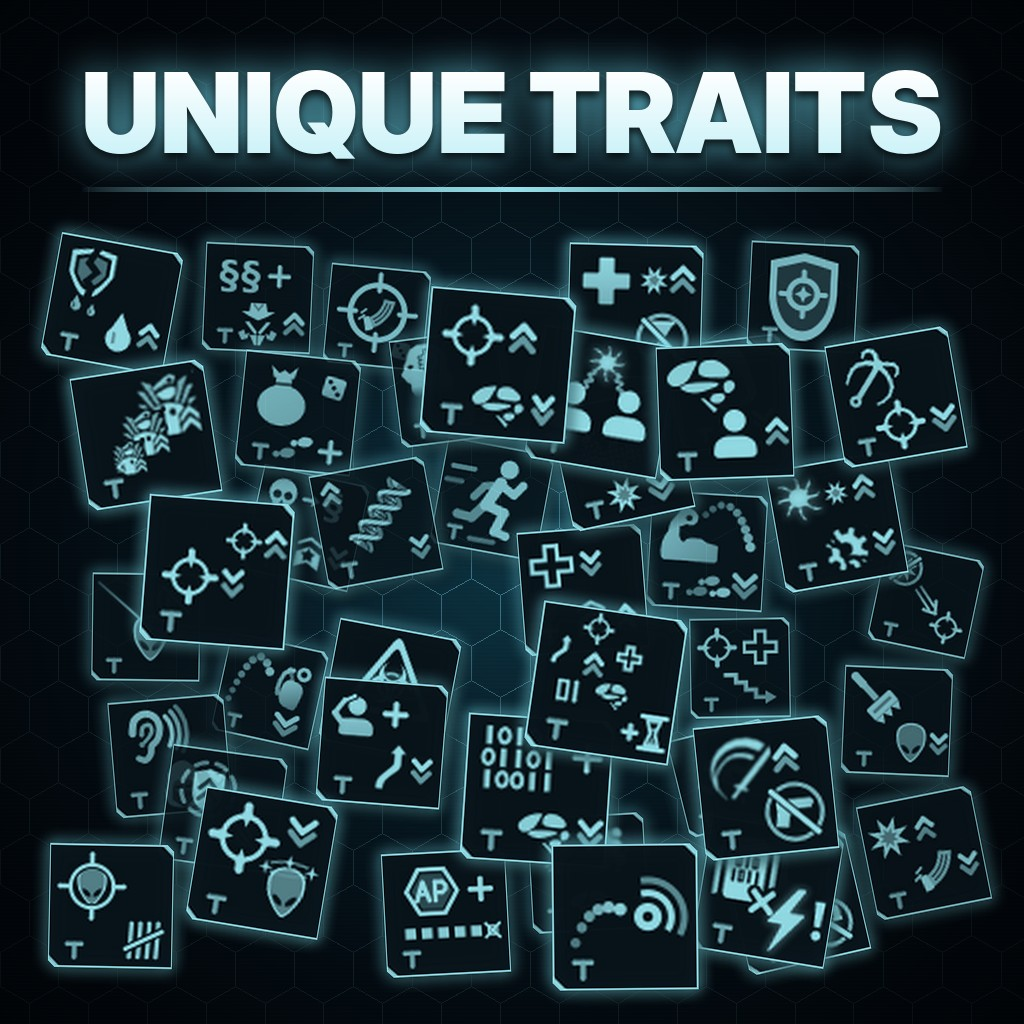
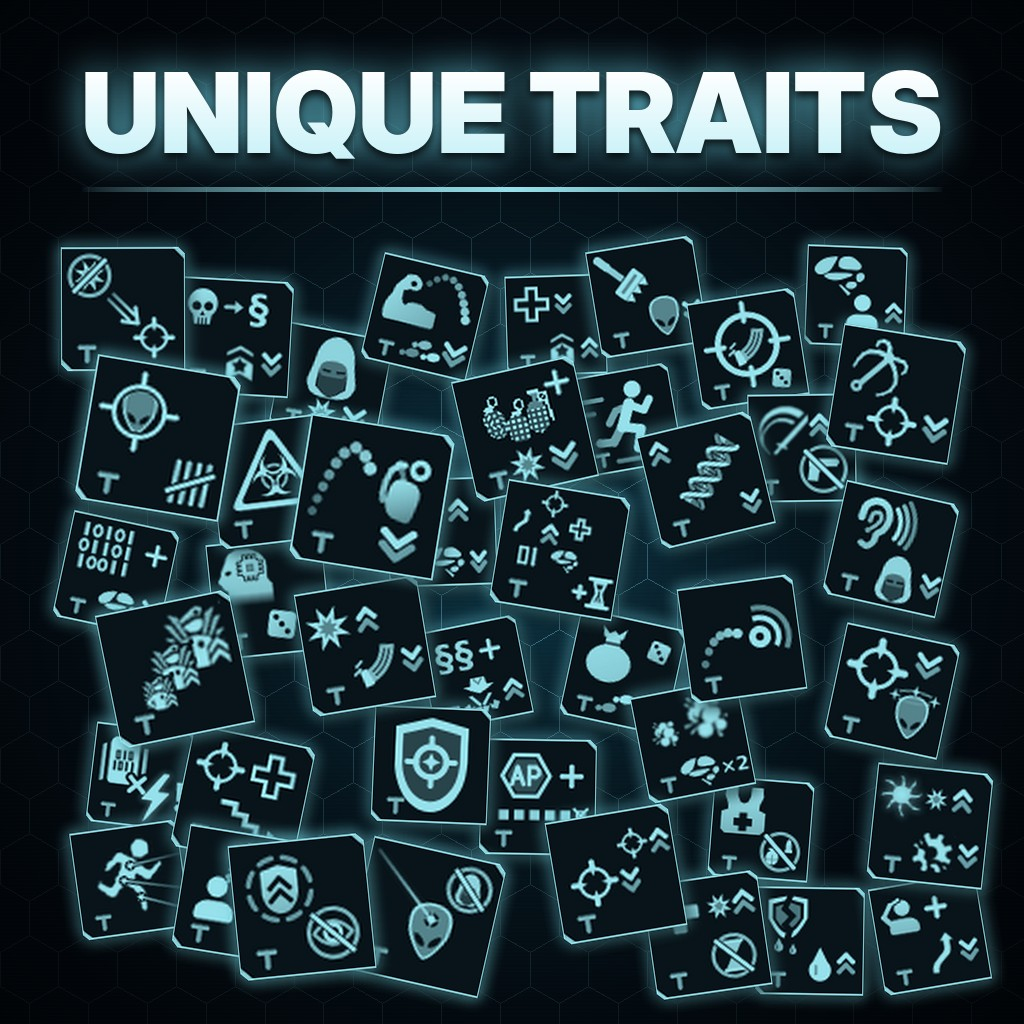
Add a readme copying the steam workshop description Update 2 trait label Rework ModPreview image

diff --git a/ReadMe.md b/ReadMe.md
@@ -1,0 +1,174 @@
+# Unique Traits
+
+## Main Goal
+
+Add diversity to your campaign by giving some of your soldiers a unique trait.
+
+There are **42 traits** covering a wide range of gameplay elements, including stats, damage, cover actions, skill trees and skill points, bondmates, new tactical abilities, and more.
+
+- **35 traits** are available without additional mod requirements.
+- **7 traits** require specific mods to be available: 5 for LWOTC and 2 for Community Promotion Screen.
+
+Each trait provides a thematic advantage along with a corresponding drawback.
+
+Each trait can only be assigned to one soldier at a time, meaning a maximum of 42 soldiers can have a trait simultaneously.
+
+When a soldier with a trait dies or is dismissed, their trait becomes available again.
+
+---
+
+## Some Examples
+
+- **Athlete:** +3 Mobility, +15 Dodge, -5 Aim, -10 Critical Chance.
+- **Pacifist:** Gains a new ability, *Stay Covered*. This free action activates if the soldier inflicted no damage during the previous turn. Allies within 6 tiles gain +10 Defense and +5 Dodge until the next turn. The soldier loses all Overwatch abilities.
+- **Acrobat:** Gains the Skirmisher Grapple ability. Suffers -10 Aim and -10 Critical Chance when attacking targets below their elevation.
+- **Briber:** Generates +20 Supplies per month for the haven they advise. Increases squad infiltration time when deployed. **[LWOTC only; disabled without LWOTC]**
+- **Thief:** Picking up loot during the XCOM turn grants one bonus movement point, once per turn. Has a 20% chance to secretly keep the item, meaning you lose the corresponding reward.
+- **Cyborg:** Can only equip basic PCS. Replaced PCS are retained. Upon mission victory, has a 30% chance to upgrade the equipped PCS by one tier.
+- ...
+
+---
+
+## How It Works
+
+By default, all rookies who rank up naturally (by completing a mission, getting kills, or completing a covert action) receive a random trait.
+
+This system was designed for balance, as the mod is intended to be played with **ChooseMyClass**, which offers three class choices whenever a rookie ranks up.
+
+You can adjust the difficulty by changing your setup:
+
+- **Without ChooseMyClass:** Harder. Some traits may be poorly suited to certain classes, and the random assignment can lead to unfortunate combinations.
+- **With ChooseMyClass:** In roughly half of your rank-ups, you should find a suitable class among the three choices. The other half may be more frustrating.
+- **With the "Trait Given at Recruitment" option enabled:** Easier. You know each rookie's trait from the beginning and can train them in a suitable class at the GTS.
+
+---
+
+## Exceptions
+
+Some soldiers do not naturally receive a trait:
+
+- Faction Heroes: Skirmisher, Reaper, and Templar.
+- Aliens and ADVENT units.
+- Mission, Covert Action, and Black Market rewards.
+- POI rewards.
+- MECs: converting a soldier with a trait into a MEC removes their trait.
+
+These exceptions are intentional for balancing and compatibility reasons.
+
+---
+
+## Console Commands
+
+If you want to assign a trait to one of the exceptions, you can use the following console command on the soldier's Armory screen:
+
+```
+AddUniqueTrait TraitName
+```
+
+Replace `TraitName` with the name of the trait you want to assign.
+
+If the soldier already has a trait, it will be replaced.
+
+**Important:** This command bypasses the uniqueness rule, allowing you to assign the same trait to multiple soldiers.
+
+To remove a trait from a soldier, use:
+
+```
+RemoveUniqueTrait
+```
+
+These commands should only be used when necessary. Don't cheat! :P
+
+---
+
+## Mod Companions
+
+- **MCM (Mod Configuration Menu):** Use MCM instead of editing INI files. Otherwise, your changes may be overwritten when I update those files. With MCM, any options you have modified will retain your settings, while untouched options will follow my updates.
+- **Class Highlander:** My other mod, which restricts each class to one soldier. With 40–50 classes, plus playable aliens, ADVENT, faction heroes, and MECs, every campaign can be different!
+
+---
+
+## MCM Configuration
+
+As mentioned above, you should use the **MCM mod** to configure this mod.
+
+You can use either the original MCM or my fork, which fixes the tooltip issue. I have added a lot of tooltips to explain the available options.
+
+MCM provides two configuration pages.
+
+### Basic Configuration
+
+The basic page contains the following options:
+
+#### Trait Given at Recruitment
+
+When enabled (disabled by default), all rookies receive a trait upon recruitment instead of waiting for their first natural rank-up.
+
+#### Trait Probabilities
+
+You can configure trait probabilities in several ways:
+
+- **Default probability:** Set the default probability for each trait. By default, 41 traits share the same probability, while one trait is five times rarer.
+- **Individual probability:** Override the default probability for a specific trait to make it more or less common.
+
+**Note:** Setting a trait's probability to `0` prevents soldiers from naturally acquiring that trait. You can still assign it manually using the console command.
+
+#### Disable a Trait
+
+You can completely disable an individual trait.
+
+Disabling a trait does more than set its probability to zero:
+
+- All code associated with that trait is disabled.
+- The trait will no longer function on your soldiers.
+- Any modified stats associated with the trait will remain.
+
+**Use this option only if a trait is causing bugs or conflicts with another mod.**
+
+### Advanced Configuration
+
+The advanced page contains **more than 150 options** for fine-tuning trait effects and balancing the mod to suit your preferences.
+
+---
+
+## Why Beta?
+
+This mod modifies many different gameplay systems, so the risk of conflicts with other mods or existing functionality is relatively high.
+
+### Tested Environments
+
+Most testing has been performed in a Ted Jam environment, including:
+
+- LWOTC
+- Ted Jam
+- Numerous additional classes
+- Requiem
+- ChooseMyClass
+- Class Highlander
+- And other mods
+
+I have also performed some tests in a basic WOTC environment using only:
+
+- War of the Chosen
+- X2CommunityHighlander
+- MCM
+
+I will keep **BETA** in the title for a while and remove it if no solvable bugs are reported.
+
+### Compatibility and Bug Reports
+
+I will have an easier time investigating and fixing bugs reported in basic WOTC or Ted Jam environments.
+
+I have not tested this mod with class overhaul mods such as RPGO. I cannot guarantee that I will be able to resolve compatibility issues with them, but you are welcome to report any problems you encounter.
+
+You can also contact me on the **LWOTC Discord**, where my username is `zephyx`.
+
+### What to Do If a Trait Causes Problems
+
+If a specific trait causes issues in your campaign, you have two options:
+
+1. **Remove the trait from a soldier** using the console command:
+
+   RemoveUniqueTrait
+
+2. **Disable the trait in MCM:** Open the mod's configuration, disable the problematic trait, then exit and relaunch the game.
